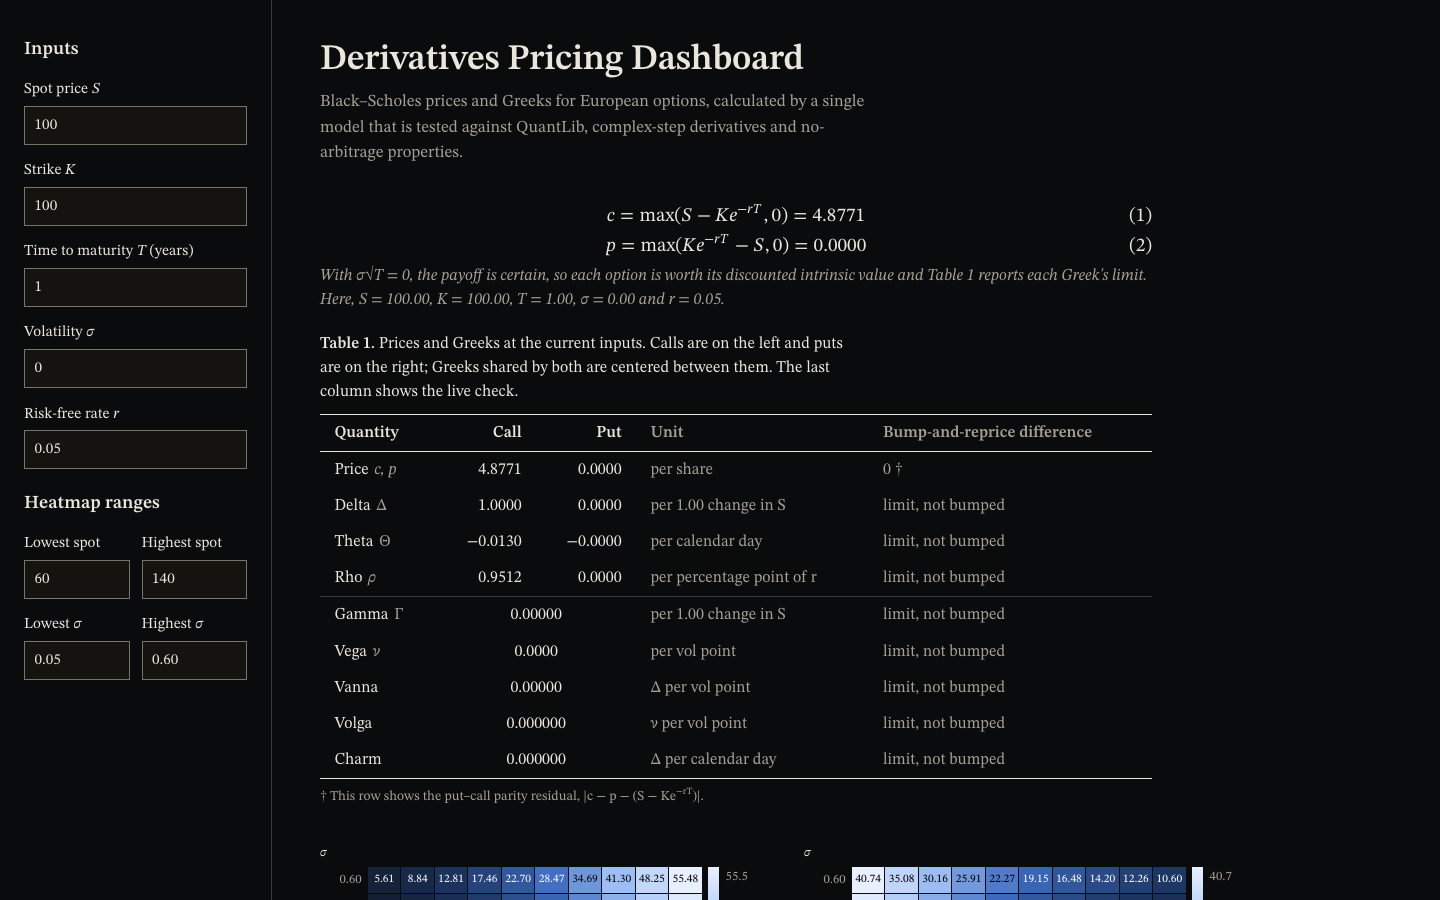
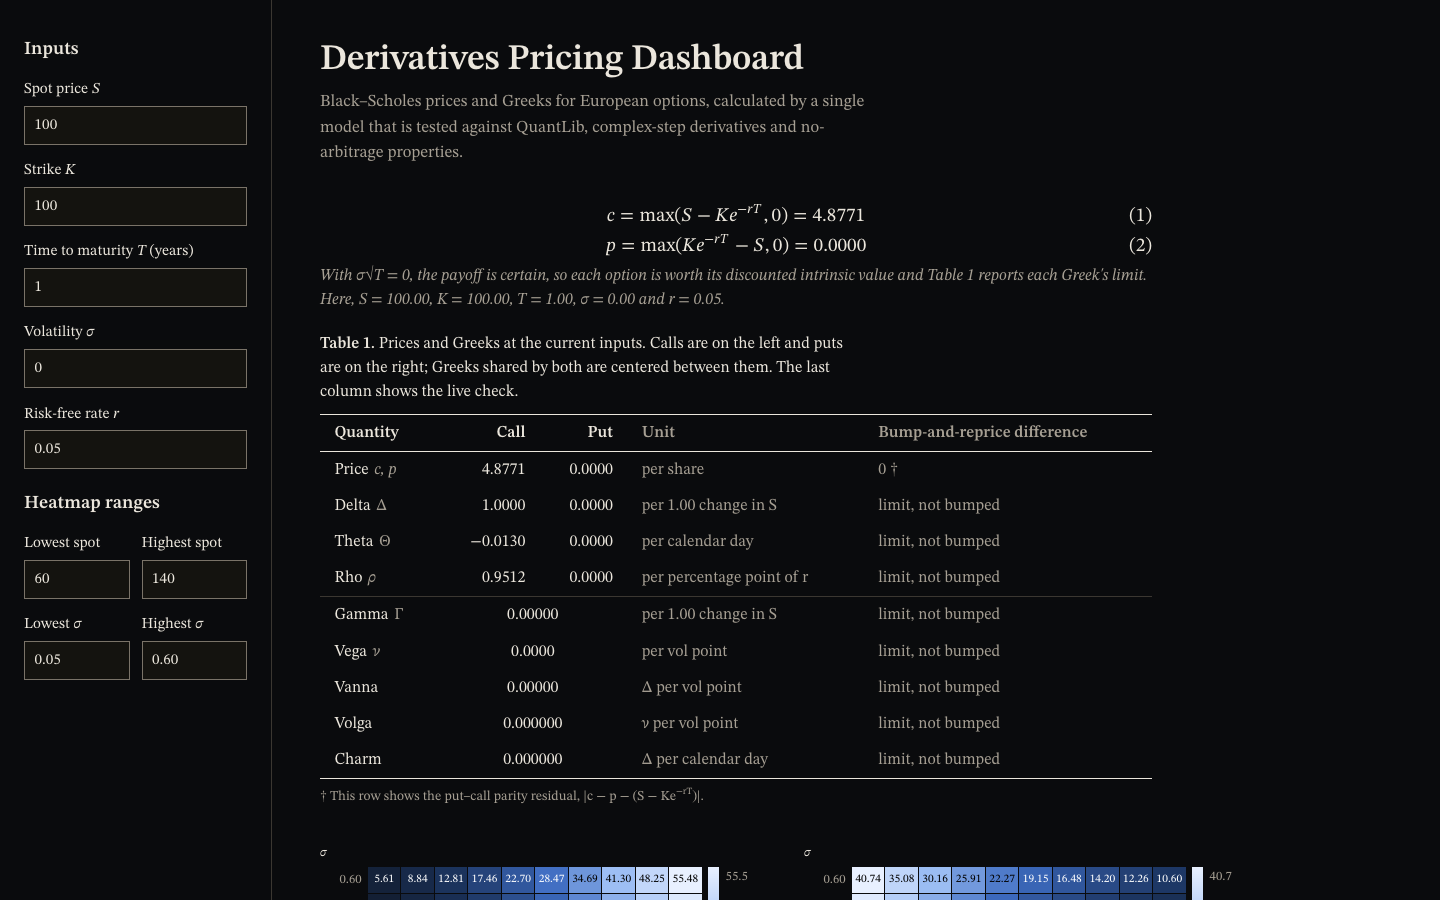
updated features

diff --git a/app.js b/app.js
@@ -30,7 +30,9 @@ function number(value, decimals) {
   if (value === "inf") return '<span class="inf">∞</span>';
   if (value === "-inf") return '−<span class="inf">∞</span>';
   if (value === undefined || value === null) return "—";
-  return minus(value.toLocaleString("en-US", { minimumFractionDigits: decimals, maximumFractionDigits: decimals }));
+  const text = value.toLocaleString("en-US", { minimumFractionDigits: decimals, maximumFractionDigits: decimals });
+  // A value that rounds to zero shows no sign.
+  return minus(/[1-9]/.test(text) ? text : text.replace("-", ""));
 }
 
 function difference(value) {
